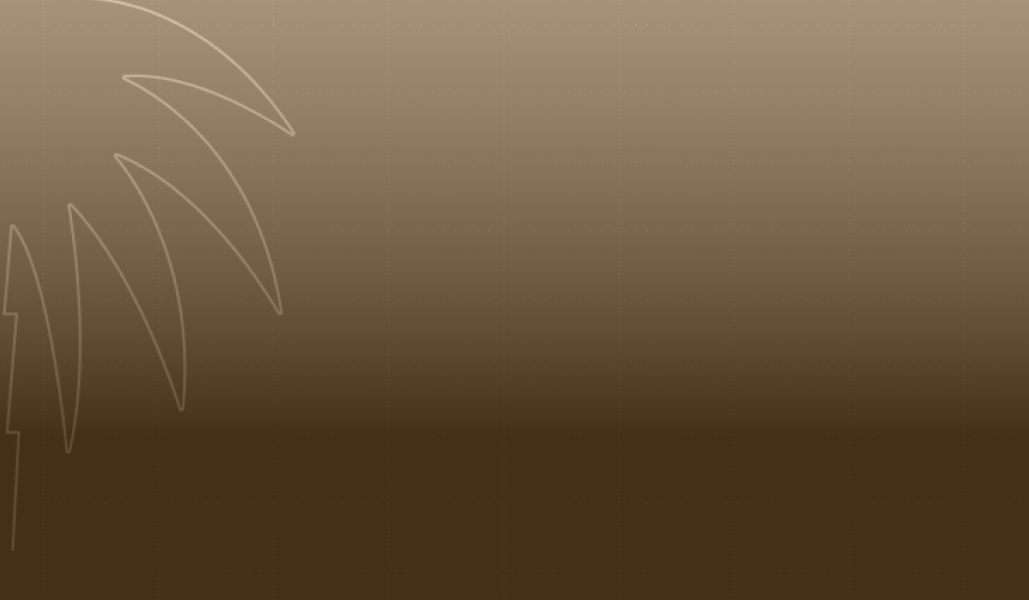
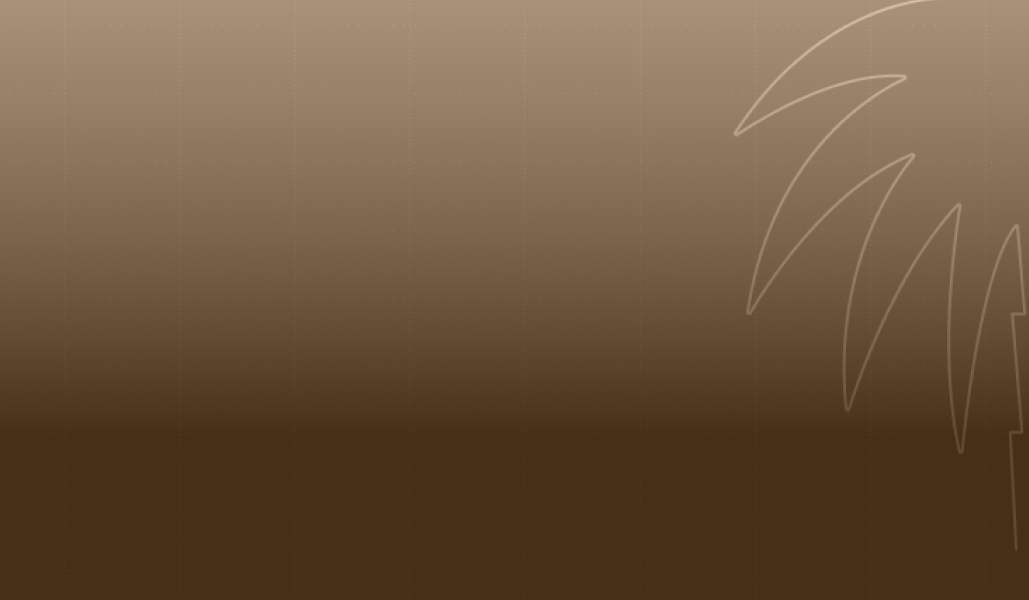
fix(landing): Change font of the texts

diff --git a/lib/app/features/_shared_feature_/balady_features/widgets/home/calendar_card/calendar_home_item_card.dart b/lib/app/features/_shared_feature_/balady_features/widgets/home/calendar_card/calendar_home_item_card.dart
@@ -2,19 +2,18 @@ import 'package:balady_plus/app/core/utils/common_functions.dart';
 import 'package:balady_plus/app/core/utils/constants/ux_cam_events.dart';
 import 'package:balady_plus/app/features/calendar/domain/entities/search_calendar/search_calendar_item.dart';
 import 'package:balady_uikit/core/colors/app_color_scheme.dart';
-import 'package:balady_uikit/core/typography/text_theme_styles.dart';
 import 'package:flutter/material.dart';
 import 'package:add_2_calendar/add_2_calendar.dart';
 import 'package:localize_and_translate/localize_and_translate.dart';
 import 'package:mapness/shared/config/package_config.dart';
 import 'package:mapness/shared/extensions/build_context_ext.dart';
 
-
 class CalendarHomeItemCard extends StatelessWidget {
   final SearchCalendarItem item;
   final double? width;
   final EdgeInsets? padding;
   final AppColorScheme colorScheme;
+
   const CalendarHomeItemCard({
     super.key,
     required this.item,
@@ -25,19 +24,29 @@ class CalendarHomeItemCard extends StatelessWidget {
 
   @override
   Widget build(BuildContext context) {
+    final dayString = StringBuffer();
+    dayString.write(item.startDate?.month.toString().padLeft(2, "0") ?? "");
+    dayString.write('/');
+    dayString.write(item.startDate?.day.toString().padLeft(2, "0") ?? "");
+
+    final dayStyle = context.textStyle.heading2.copyWith(
+      color: Colors.white,
+      height: 1.5,
+    );
+    final nameStyle = context.textStyle.footNote.copyWith(
+      color: Colors.white,
+      height: 1.5,
+    );
+
     return Container(
       margin: padding ?? const EdgeInsets.only(top: 16, left: 16, right: 16),
       height: 200,
       width: width ?? MediaQuery.of(context).size.width - 32,
-      padding: const EdgeInsets.only(
-        left: 16,
-        right: 24,
-        top: 12,
-        bottom: 16,
-      ),
+      padding: const EdgeInsets.only(left: 16, right: 24, top: 12, bottom: 16),
       decoration: BoxDecoration(
         borderRadius: BorderRadius.circular(8),
         image: DecorationImage(
+          matchTextDirection: true,
           image: AssetImage(
             colorScheme == AppColorScheme.brown
                 ? "assets/images/calendar_card_brown.png"
@@ -48,79 +57,39 @@ class CalendarHomeItemCard extends StatelessWidget {
         ),
       ),
       child: Column(
+        crossAxisAlignment: CrossAxisAlignment.start,
         mainAxisAlignment: MainAxisAlignment.spaceBetween,
         children: [
           Column(
             crossAxisAlignment: CrossAxisAlignment.start,
             children: [
-              SaudiDay(
-                name: item.getStartDayName(),
-              ),
-              Row(
-                children: [
-                  SaudiDay(
-                    name:
-                        item.startDate?.month.toString().padLeft(2, "0") ?? "",
-                  ),
-                  const SaudiDay(
-                    name: '/',
-                  ),
-                  SaudiDay(
-                    name: item.startDate?.day.toString().padLeft(2, "0") ?? "",
-                  ),
-                ],
-              ),
-              Text(
-                (item.name ?? ""),
-                maxLines: 2,
-                style: Theme.of(context)
-                    .extension<ThemeTextStyles>()
-                    ?.footNote
-                    .copyWith(
-                      color: Colors.white,
-                      height: 1.5,
-                    ),
-              ),
+              Text(item.getStartDayName(), maxLines: 2, style: dayStyle),
+              Text(dayString.toString(), maxLines: 2, style: dayStyle),
+              Text((item.name ?? ""), maxLines: 2, style: nameStyle),
             ],
           ),
           SaudiContainer(
             btnText: "saudi_calendar_add".tr(),
             remainingText: "remaining".tr(),
             timer: item.remainingDays(),
-            addToCalendar: () {
-              CommonFunctions.sendUXCamEvent(
-                  UXCamEvents.KingdomCalendar_List_AddToCalender_Event);
-              Add2Calendar.addEvent2Cal(
-                buildEvent(
-                  title: item.name ?? "",
-                  startDate: item.startDate!,
-                  endDate: item.endDate!,
-                ),
-              );
-            },
+            addToCalendar: addToCalendar,
           ),
         ],
       ),
     );
   }
-}
 
-class SaudiDay extends StatelessWidget {
-  final String name;
-  const SaudiDay({
-    super.key,
-    required this.name,
-  });
-
-  @override
-  Widget build(BuildContext context) {
-    return Text(
-      name,
-      maxLines: 2,
-      style: Theme.of(context).extension<ThemeTextStyles>()?.heading2.copyWith(
-            color: Colors.white,
-            height: 1.5,
-          ),
+  void addToCalendar() {
+    CommonFunctions.sendUXCamEvent(
+      UXCamEvents.KingdomCalendar_List_AddToCalender_Event,
+    );
+    Add2Calendar.addEvent2Cal(
+      Event(
+        title: item.name ?? "",
+        startDate: item.startDate!,
+        endDate: item.endDate!,
+        allDay: false,
+      ),
     );
   }
 }
@@ -130,15 +99,25 @@ class SaudiContainer extends StatelessWidget {
   final String timer;
   final String btnText;
   final Function addToCalendar;
-  const SaudiContainer(
-      {super.key,
-      required this.remainingText,
-      required this.timer,
-      required this.btnText,
-      required this.addToCalendar});
+
+  const SaudiContainer({
+    super.key,
+    required this.remainingText,
+    required this.timer,
+    required this.btnText,
+    required this.addToCalendar,
+  });
 
   @override
   Widget build(BuildContext context) {
+    final remainingStyle =
+        context.textStyle.footNote.copyWith(color: Colors.white);
+    final timerStyle = context.textStyle.callout.copyWith(color: Colors.white);
+    final buttonTextStyle = context.textStyle.callout.copyWith(
+      color: context.color.textAndIconsStatusAccent,
+    );
+    final borderRadius = BorderRadius.circular(8);
+
     return Row(
       mainAxisAlignment: MainAxisAlignment.spaceBetween,
       crossAxisAlignment: CrossAxisAlignment.end,
@@ -151,48 +130,24 @@ class SaudiContainer extends StatelessWidget {
               child: Text(
                 remainingText,
                 maxLines: 4,
-                style: Theme.of(context)
-                    .extension<ThemeTextStyles>()
-                    ?.heading2
-                    .copyWith(
-                      color: Colors.white,
-                      height: 1.5,
-                    ),
+                style: remainingStyle,
               ),
             ),
-            Text(
-              timer,
-              style: Theme.of(context)
-                  .extension<ThemeTextStyles>()
-                  ?.footNote
-                  .copyWith(
-                    color: Colors.white,
-                    height: 1.5,
-                  ),
-            ),
+            Text(timer, style: timerStyle),
           ],
         ),
         Material(
           color: Colors.white,
-          borderRadius: BorderRadius.circular(8),
+          borderRadius: borderRadius,
           child: InkWell(
-            borderRadius: BorderRadius.circular(8),
+            borderRadius: borderRadius,
             onTap: () => addToCalendar(),
             child: Padding(
-              padding: const EdgeInsets.symmetric(
-                vertical: 10,
-                horizontal: 14,
-              ),
+              padding: const EdgeInsets.symmetric(vertical: 10, horizontal: 14),
               child: Text(
                 btnText,
                 textAlign: TextAlign.center,
-                style: Theme.of(context)
-                    .extension<ThemeTextStyles>()
-                    ?.callout
-                    .copyWith(
-                      color: context.color.textAndIconsStatusAccent,
-                      height: 1.5,
-                    ),
+                style: buttonTextStyle,
               ),
             ),
           ),
@@ -200,17 +155,4 @@ class SaudiContainer extends StatelessWidget {
       ],
     );
   }
-}
-
-Event buildEvent({
-  required String title,
-  required DateTime startDate,
-  required DateTime endDate,
-}) {
-  return Event(
-    title: title,
-    startDate: startDate,
-    endDate: endDate,
-    allDay: false,
-  );
 }
